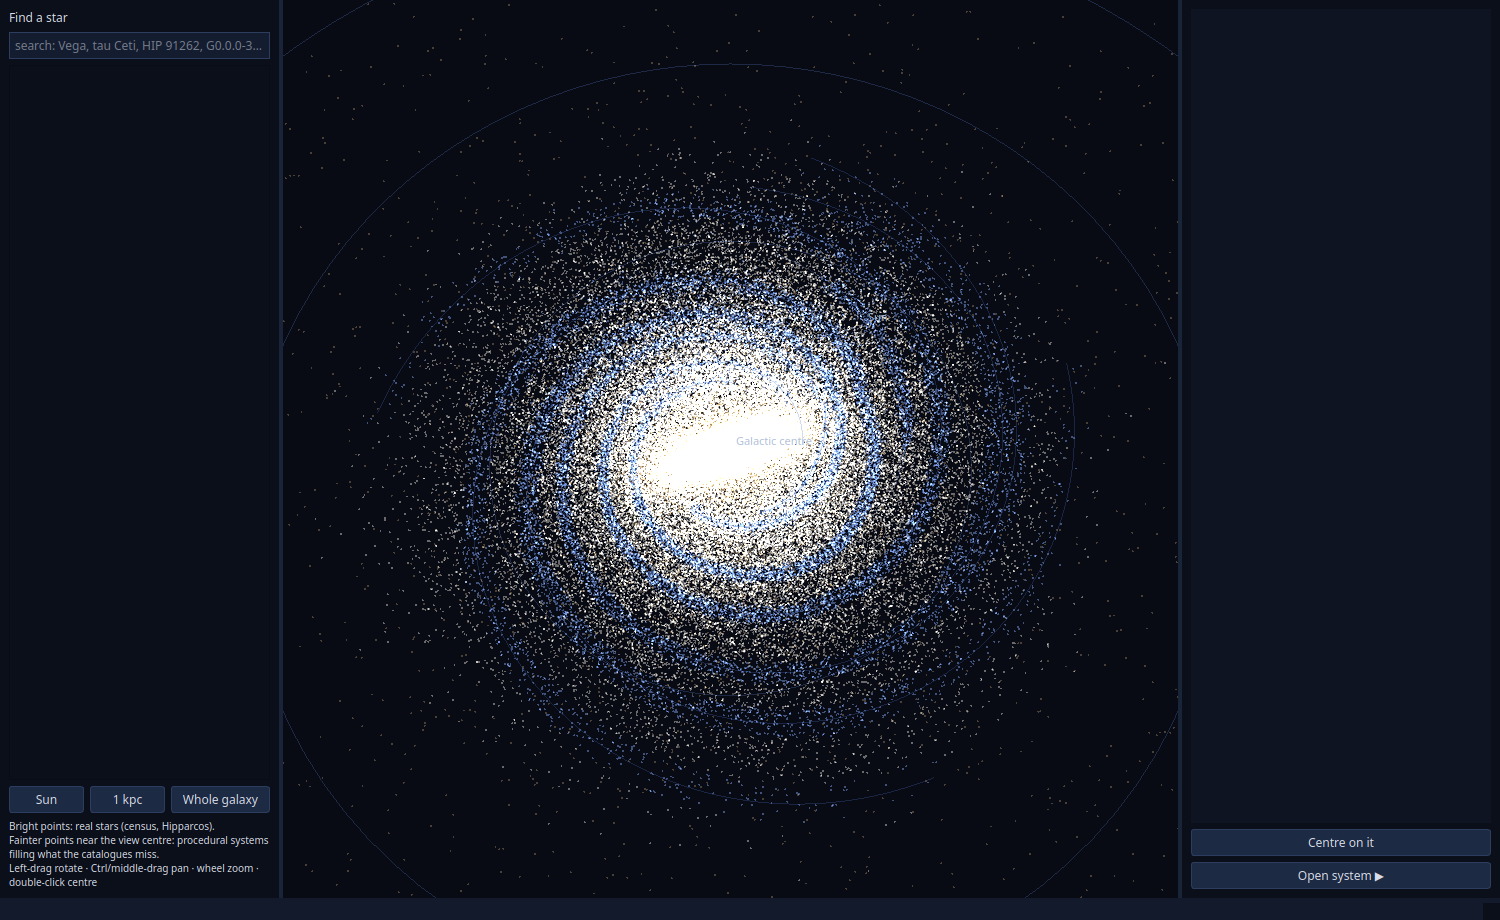
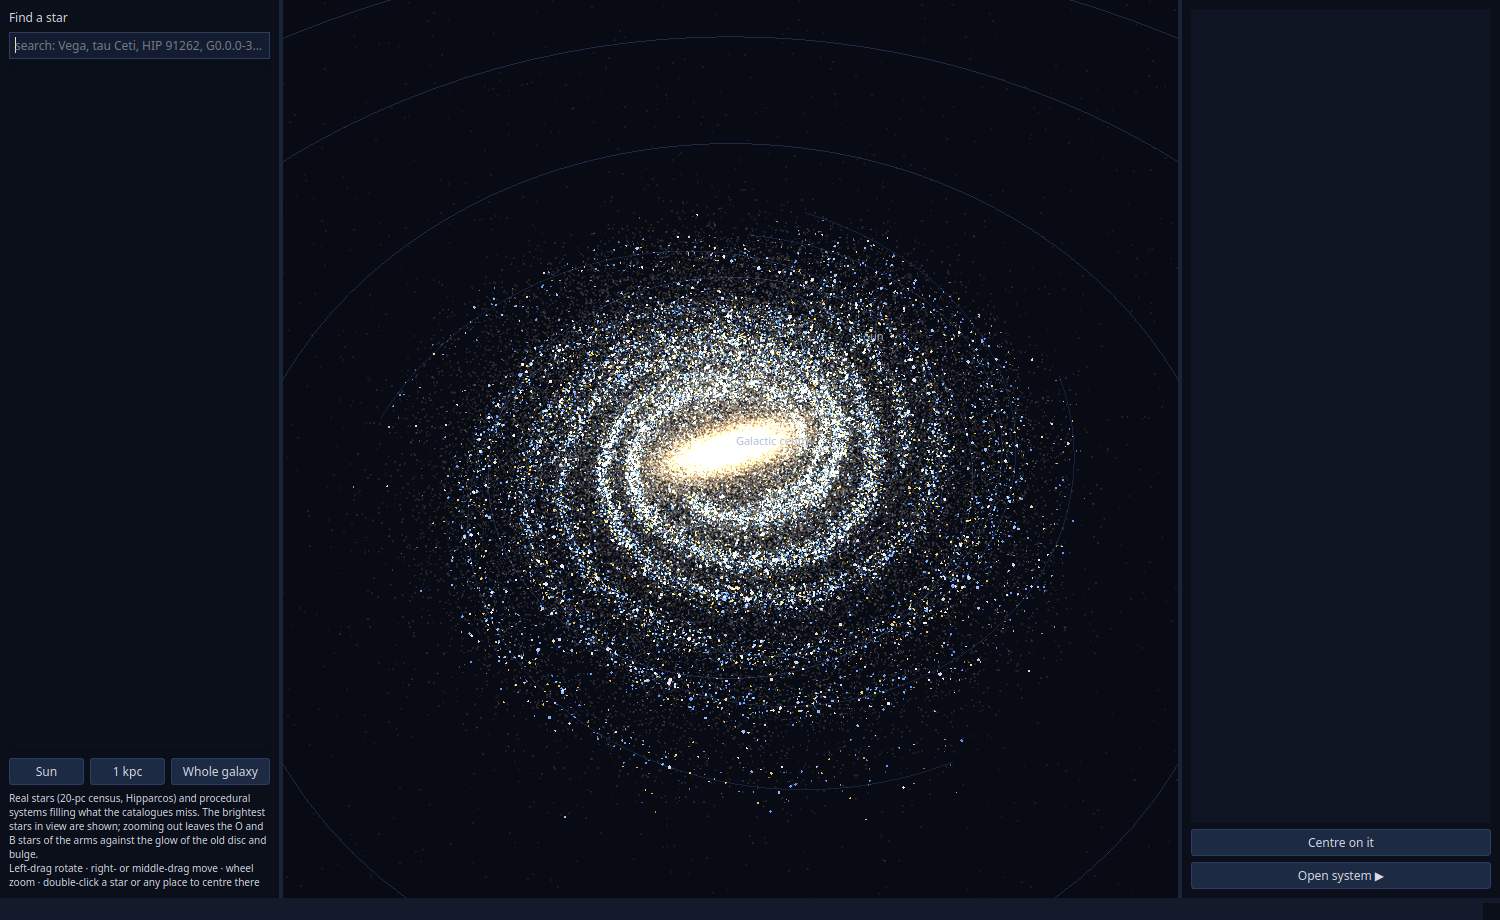
Docs: brightness tiers, random walk, real-star tiers and seeds in DESIGN 3.7, ASSUMPTIONS, NEXT_STEPS; new star-map screenshots and zoom series

Changed region(s): [[0.2453, 0.213, 0.736, 0.8826], [0.0, 0.8217, 0.184, 0.9739]]

diff --git a/DESIGN.md b/DESIGN.md
@@ -228,24 +228,33 @@ and returns a `Systems` bundle of the four tables; conditioned systems convert w
 - **Stable IDs** (`starsys.ids`): stars are drawn in blocks of 64 whose seed is a hash of the
   block address; planets and moons of one system alone from a seed derived from the block seed
   and the star's index. So a system is a pure function of its ID (`S<master>-<k>` for the
-  sequence, `G<ix>.<iy>.<iz>-<j>` for a galaxy sector) and the star map can draw stars only,
-  then planets on click, identically.
+  sequence, `G<ix>.<iy>.<iz>-<j>` for a galaxy sector, `G<t>:<ix>.<iy>.<iz>-<j>` for a
+  brightness-tier cell) and the star map can draw stars only, then planets on click,
+  identically. A real star's one system (`R:<name>`) is conditioned with a seed fixed by its
+  catalogue identifier, so it is the same in every session.
 - **System viewer** (`python -m starsys.view`, PySide6): Pioneer-style hierarchical system map
   (one row per star, planets left to right, moons below; procedural artwork from
   `starsys.view.art`, deterministic per body, physics-guided palettes), an orbit view at true
   separations (face-on, linear/log, habitable zones, time controls), a body tree and a
-  plain-language information panel; Previous/Next over a seed sequence, a real star's
-  conditioned realisations, or a star's galactic neighbours.
+  plain-language information panel; Previous/Next over a seed sequence or a real star's
+  conditioned realisations; opened from the star map, Next jumps to a random system of the
+  galaxy (every system equally likely, a fixed sequence per starting star) and Previous walks
+  back. Artwork is re-rendered at the zoom (up to 1024 px) in worker threads.
 - **Galaxy** (`starsys.galaxy`): empirical Milky Way density (Reid et al. 2019 spiral arms,
   Bland-Hawthorn & Gerhard 2016 discs and bar, Juric et al. 2008 halo; local normalisation from
   the 20-pc census), coordinate-seeded 10-pc sectors with Poisson counts, populations (ages,
-  [Fe/H]) by component and radius, young stars confined to the arms.
+  [Fe/H]) by component and radius, young stars confined to the arms. Brightness tiers: systems
+  whose primary is a living star of 1.5-3, 3-8 and >= 8 Msun are drawn in 80, 160 and 1280-pc
+  cells of their own (the >= 8 Msun ones, ~2e5, for the whole galaxy), so the bright stars seen
+  from afar are the ones found on arrival.
 - **Real stars** (`starsys.realstars`): the 20-pc census and the Hipparcos Survey are placed as
   they are; a procedural system is removed exactly when those catalogues would contain it
   (their selection functions), so the generated stars fill only what the catalogues miss.
-- **Star map** (`python -m starsys.view --galaxy`): pyqtgraph OpenGL; galaxy cloud far away,
-  real and procedural stars near the view centre (level of detail by sectors), search, click to
-  open a system (real stars run the conditioning of §3.5).
+- **Star map** (`python -m starsys.view --galaxy`): pyqtgraph OpenGL; one star field at every
+  zoom: the N brightest stars in view (6000, up to 30000 for the whole galaxy) of the real
+  stars and the loaded tier cells, each tier fading out as a whole once the view outgrows its
+  cells, against the unresolved glow of the old stars; search, click or double-click to
+  centre, right-drag to move, open a system (real stars run the conditioning of §3.5).
 
 ## 4. Phases
 

diff --git a/docs/ASSUMPTIONS.md b/docs/ASSUMPTIONS.md
@@ -240,13 +240,29 @@ Gerhard (2016), halo profile from Juric et al. (2008) normalised to 1.4e9 Msun (
 local IMF and multiplicity everywhere; one [Fe/H] gradient (-0.06 dex/kpc) for all thin-disc
 ages; arm contrast ±15 % for old stars and arm confinement of stars younger than 300 Myr.
 
+Brightness tiers (for the star map; the galaxy's content is unchanged): systems whose primary
+is a living star of 1.5-3, 3-8 and >= 8 Msun are drawn in 80, 160 and 1280-pc cells; the
+10-pc sectors hold the rest. The mass edges are round numbers near F0, B9 and B2 main-sequence
+stars; the cell sizes give a few hundred systems per cell near the Sun. Large cells place
+stars on an 8^3 sub-grid of the density. The youngest thin-disc stars are 1 Myr old in the
+galaxy (the local model's 10 Myr minimum would leave no living star above ~20 Msun). The arm
+profile is read from a 25-pc raster of the exact one (error < 0.015). A random system ("Next"
+from the map) is every galaxy system about equally likely: a point from the density, then a
+uniform pick in its cell. Within ~400 pc the map shows more O/B-class real stars than the model
+(74 within 220 pc against ~21 expected): the Gould Belt / Sco-Cen excess is real and kept.
+
 ## Real stars in the star map (starsys.realstars)
 
 Real systems come from the 20-pc census (treated as complete) and the Hipparcos Survey (complete
 to V = 7.9 + 1.1|sin b| before G5, 7.3 + 1.1|sin b| later; ESA 1997). A procedural system is
 removed when these catalogues would list it. Assumed: Hipparcos parallax error 0.9 mas for all
 Survey stars; extinction 0.7 mag/kpc in a 100-pc dust layer; bolometric corrections from the
-Mamajek dwarf table also for giants.
+Mamajek dwarf table also for giants. Census entries without a catalogue Teff (most of them)
+take it from their spectral type. For the map's tiers a real star counts like a procedural
+one of comparable mass: by Teff (7200, 10500, 20000 K for 1.5, 3, 8 Msun; Pecaut & Mamajek
+2013), cool giants (class II-III) as 1.5-3 Msun, supergiants by absolute V (< -4: >= 8 Msun).
+Not represented at large distances: red giants of < 1.5 Msun stars (they are in the 10-pc
+sectors, loaded only near the view centre).
 
 ## Moon tidal heating cap (phase 7)
 

diff --git a/docs/NEXT_STEPS.md b/docs/NEXT_STEPS.md
@@ -26,6 +26,10 @@ not kept as open tasks.
    in `docs/NIGHT_PLAN.md`): PySide6 system viewer with Pioneer-style map, orbit view,
    procedural artwork and Previous/Next over stable IDs; procedural Milky Way with spiral arms;
    real stars blended by catalogue selection functions; 3D star map; A10; moon-heating cap.
+   Second round (2026-10-16, after the first look): one system per real star with a fixed
+   seed, Next/Previous as a random walk through the galaxy, mouse re-centring, artwork at the
+   zoom's resolution, and brightness tiers so that the map keeps the same density of stars
+   from 50 pc to the whole galaxy without a switch to a separate cloud.
 
 ## Next (proposals)
 
@@ -37,6 +41,10 @@ not kept as open tasks.
   (needs a download and its selection function), extinction maps instead of the uniform
   0.7 mag/kpc, the disc's warp and flare; the thin disc's total mass comes out ~35 % low
   against BHG16 with the census normalisation (see NIGHT_PLAN D7).
+- Galaxy map: red giants of low-mass stars (the K giants that fill the real naked-eye sky)
+  are only in the 10-pc sectors; a tier of evolved low-mass stars would show them at kpc
+  scales. The whole galaxy's O/B stars take ~8 s to load (progressively); a disk cache would
+  make that instant.
 - Performance: sector generation is ~1.5 ms per 10-pc sector near the Sun but ~5600 systems
   per sector at the Galactic centre; the map never loads such sectors today (it only loads
   within 45 pc of the view centre), but browsing the bulge would need a coarser level of detail.
@@ -78,7 +86,7 @@ Validation and known limits: `docs/validation/phase6.md`; assumptions: `docs/ASS
 
 ```bash
 source .venv/bin/activate
-pytest -q                                  # all tests should pass (103)
+pytest -q                                  # all tests should pass (109)
 python -m starsys -n 5 --seed 1             # five random systems, printed
 python -m starsys --id S1-42                # one system by its stable ID
 python -m starsys.view                      # system viewer (Previous/Next)
